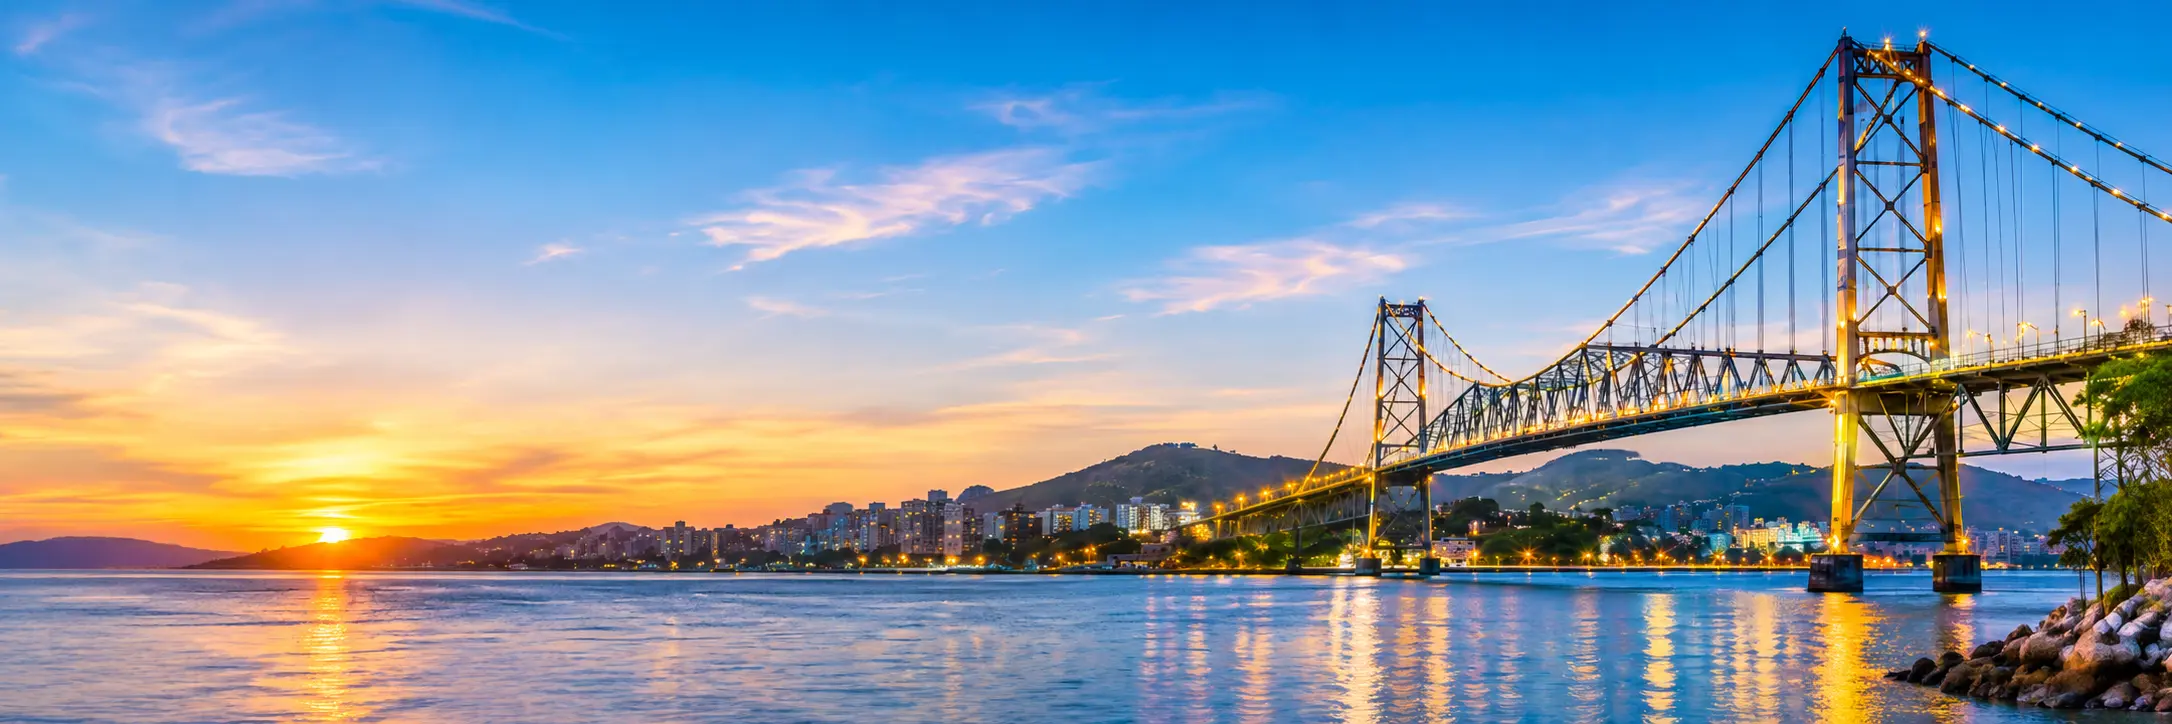
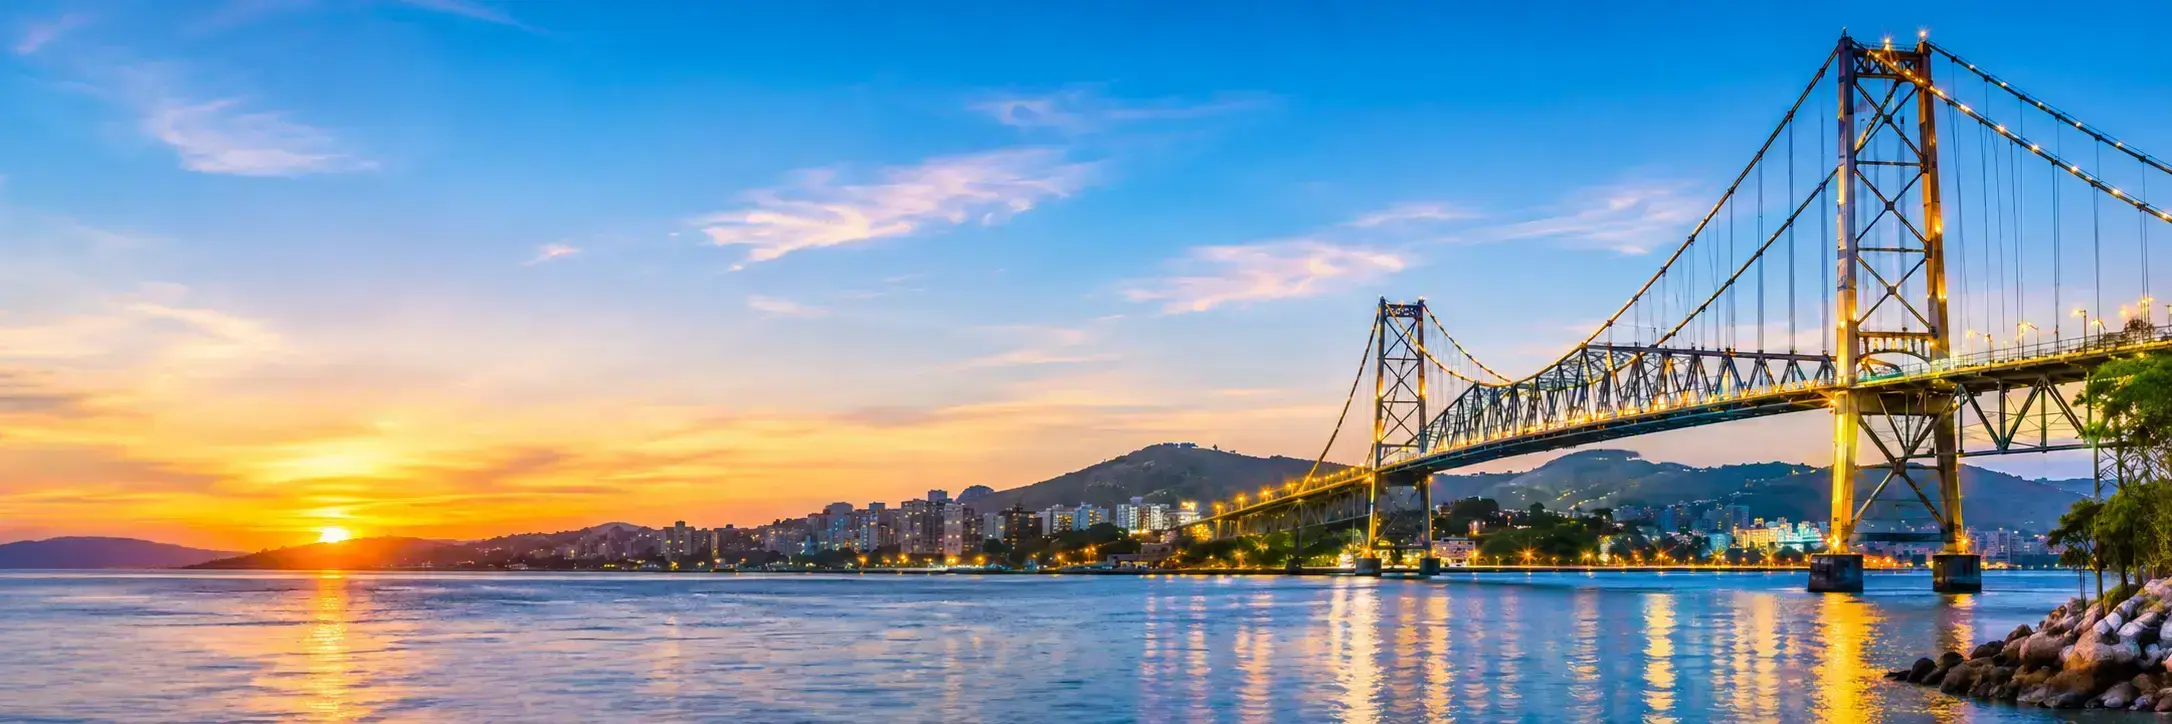
fix html

diff --git a/chamber/index.html b/chamber/index.html
@@ -154,7 +154,7 @@
             <h3>Current Weather</h3>
 
             <div class="weather-main">
-                <img id="weather-icon" src="" alt="Weather icon">
+                <img id="weather-icon" src="https://openweathermap.org/img/wn/01d@2x.png" alt="Weather icon">
 
                 <div>
                     <p id="current-temp">--°C</p>
@@ -181,6 +181,7 @@
         <p>Loading business spotlights...</p>
     </div>
 </section>
+    </main>
     <footer>
         <p>
             &copy; <span id="currentYear"></span> Jonathan de Almeida |
